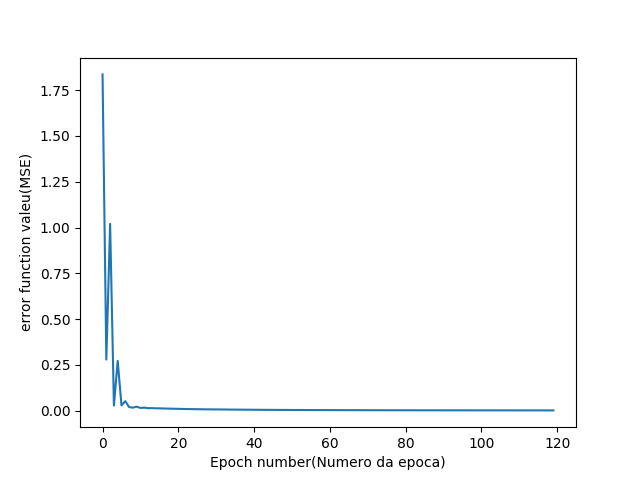
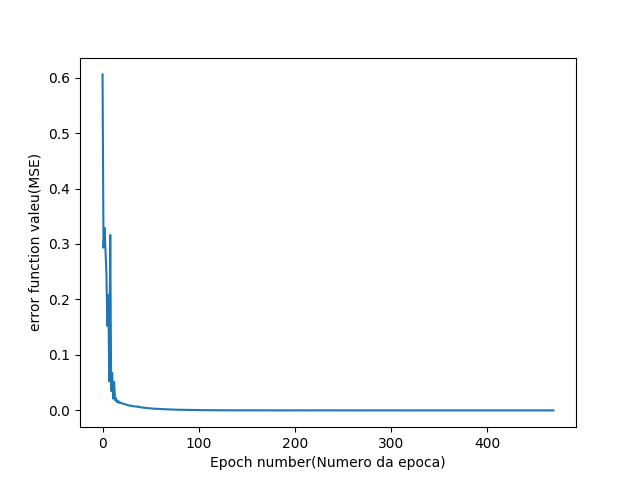
data optimized

diff --git a/main.py b/main.py
@@ -22,9 +22,9 @@ dataset = gen_train_sets.normalized_data_set_separator(10, 9, False, norm_rule="
 
 # print(gen_norm_train_set.normalized_min_max())
 
-mlp = TimeSeriesMLPMultivariate([30, 10, 1], train_alg="train_rprop")
+mlp = TimeSeriesMLPMultivariate([70, 30, 1], train_alg="train_rprop")
 
-min_error = mlp.train(dataset, save_plot=True, epochs=120, goal=0.000001)
+min_error = mlp.train(dataset, save_plot=True, epochs=470, goal=0.000001)
 
 print(mlp.sim(x_label="TCH previsto", y_label="TCH real"))
 print(mlp.out(validation_set.normalized_data_set_separator(10, 9, False, norm_rule="zero_one"),
